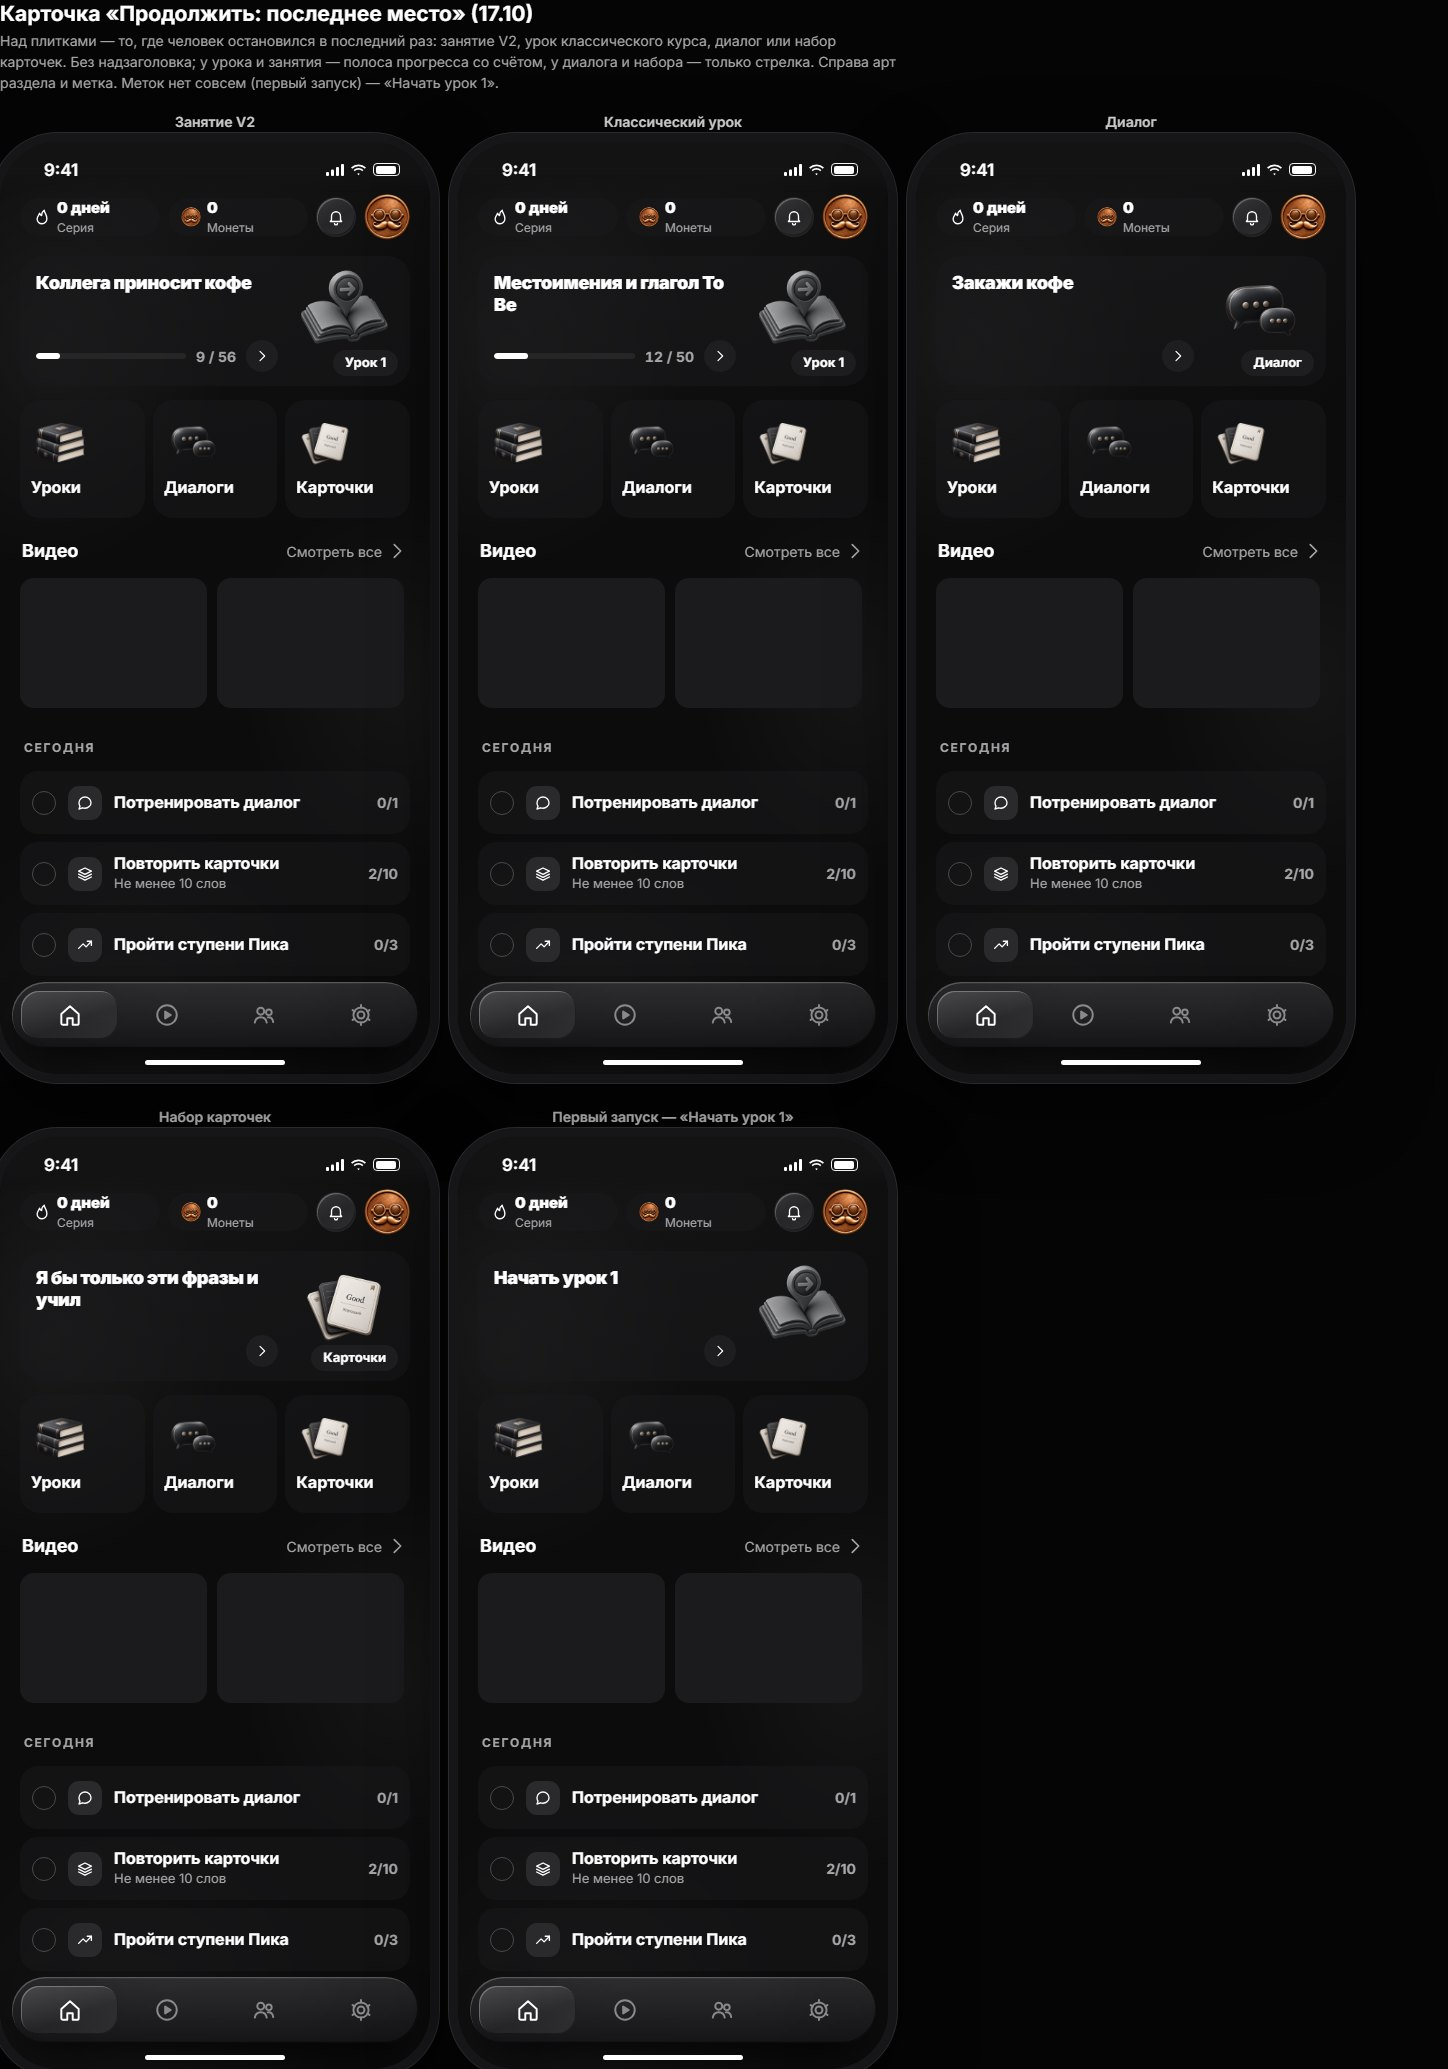
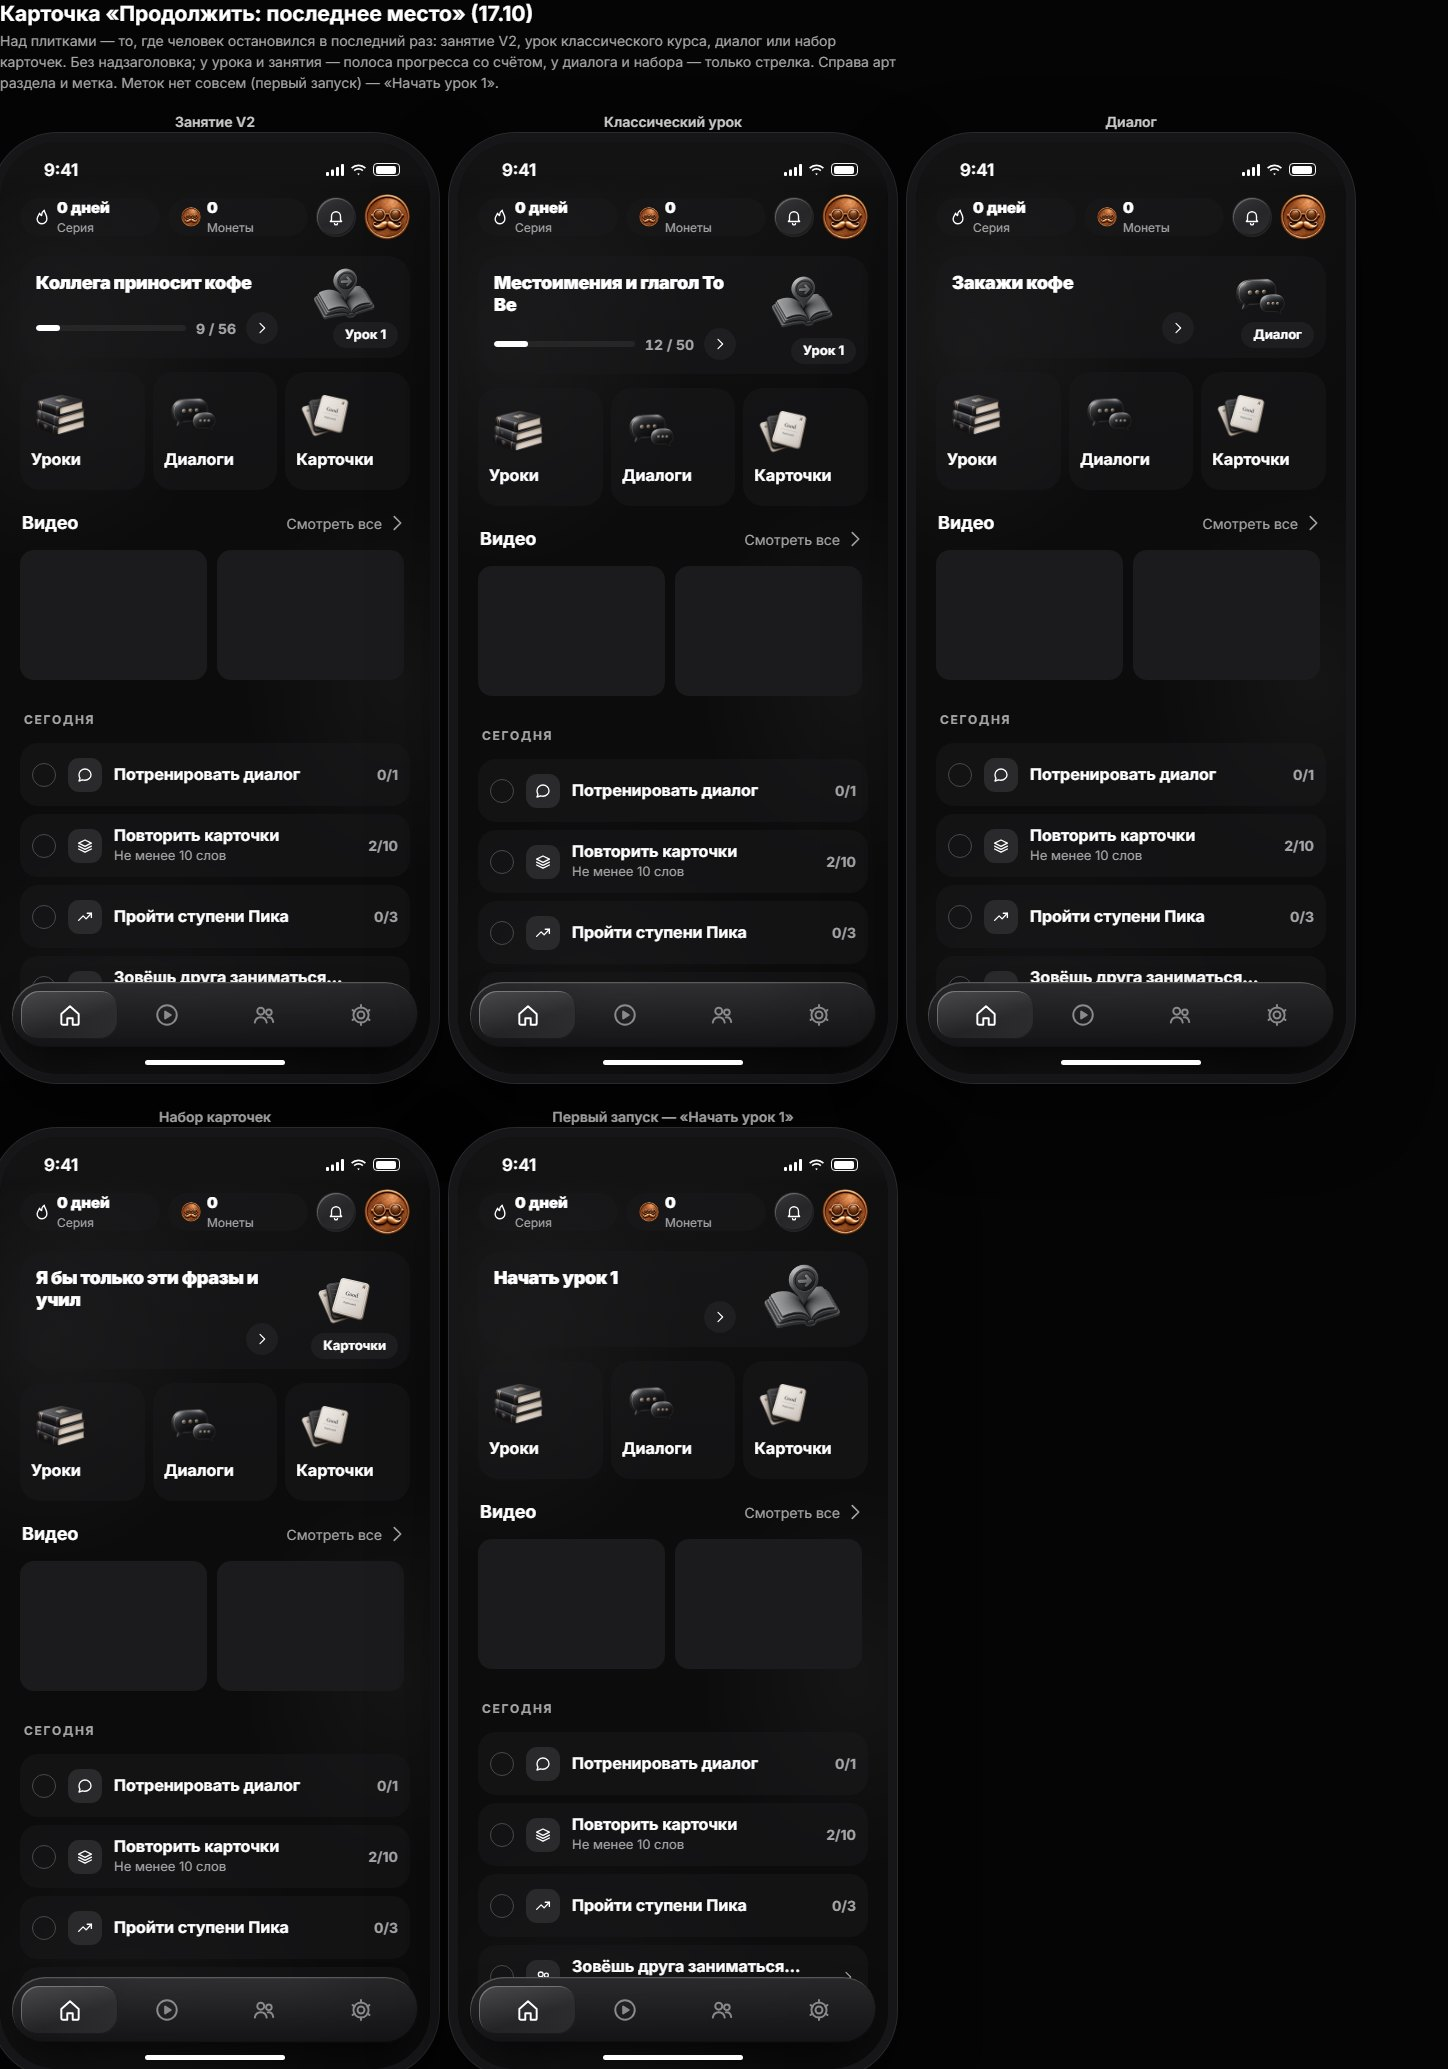
docs(design): карточка «последнее место» в эталоне — размеры по коду (высота от 96, арт 64 с меткой / 80 без)
Governance-ID: TG-5578C1520D76

diff --git a/docs/design/v2-app/home-by-language-mockup.html b/docs/design/v2-app/home-by-language-mockup.html
@@ -62,7 +62,7 @@
 /* зачем (владелец 17.10, 719e4c771): карточка «последнее место» над плитками — занятие V2, классический урок, диалог или набор карточек.
    Геометрия — как HomeV2ContinueCard: без надзаголовка (владелец 04.10), название 2 строки, ниже полоса прогресса со счётом и круглая стрелка;
    у диалога и набора прогресса нет (hideProgress) — строка той же высоты, стрелка на месте. Справа арт целиком (contain) и плашка-метка. */
-.lastp { margin-top: 16px; border-radius: 22px; min-height: 104px; background: color-mix(in srgb, var(--card-2) 50%, transparent); position: relative; overflow: hidden; display: flex; align-items: stretch; }
+.lastp { margin-top: 16px; border-radius: 22px; min-height: 96px; background: color-mix(in srgb, var(--card-2) 50%, transparent); position: relative; overflow: hidden; display: flex; align-items: stretch; }
 .lastp .cp { flex: 1; min-width: 0; padding: 16px 0 14px 16px; display: flex; flex-direction: column; justify-content: space-between; gap: 12px; }
 .lastp .tt { font-size: 18px; line-height: 22px; font-weight: 800; letter-spacing: -.3px; display: -webkit-box; -webkit-line-clamp: 2; -webkit-box-orient: vertical; overflow: hidden; }
 .lastp .pr { display: flex; align-items: center; gap: 10px; min-height: 32px; }
@@ -71,7 +71,9 @@
 .lastp .pr .ct2 { font-size: 14px; font-weight: 700; color: var(--sec); font-variant-numeric: tabular-nums; }
 .lastp .pr .ar2 { margin-left: auto; width: 32px; height: 32px; border-radius: 16px; background: color-mix(in srgb, #2A2A2C 50%, transparent); display: flex; align-items: center; justify-content: center; flex: none; }
 .lastp .art2 { position: relative; width: 132px; flex: none; display: flex; align-items: center; justify-content: center; padding: 8px 10px 30px; }
-.lastp .art2 img { width: 92px; height: 92px; object-fit: contain; }
+.lastp .art2 img { width: 64px; height: 64px; object-fit: contain; }
+.lastp .art2.nb { padding-bottom: 8px; }
+.lastp .art2.nb img { width: 80px; height: 80px; }
 .lastp .bdg2 { position: absolute; right: 12px; bottom: 10px; min-height: 26px; padding: 4px 12px; border-radius: 13px; background: color-mix(in srgb, #2A2A2C 50%, transparent); font-size: 13px; font-weight: 700; white-space: nowrap; }
 .today { background: none; border: 0; padding: 14px 0 6px; }
 .today .row { background: color-mix(in srgb, var(--card-2) 50%, transparent); border: 0; border-radius: 18px; padding: 10px 12px; margin-top: 8px; }
@@ -139,7 +141,7 @@ const home = (code) => {
 };
 
 // ── карточка «последнее место» (719e4c771): варианты по месту, где человек остановился ──
-const lastPlace = (o) => `<div class="lastp"><div class="cp"><div class="tt">${o.title}</div><div class="pr">${o.total ? `<div class="trk2"><i style="width:${Math.max(4, Math.round(o.done / o.total * 100))}%"></i></div><span class="ct2">${o.done} / ${o.total}</span>` : ''}<span class="ar2">${icon('fwd', 's16')}</span></div></div><div class="art2"><img src="${img(o.art)}" alt="">${o.badge ? `<span class="bdg2">${o.badge}</span>` : ''}</div></div>`;
+const lastPlace = (o) => `<div class="lastp"><div class="cp"><div class="tt">${o.title}</div><div class="pr">${o.total ? `<div class="trk2"><i style="width:${Math.max(4, Math.round(o.done / o.total * 100))}%"></i></div><span class="ct2">${o.done} / ${o.total}</span>` : ''}<span class="ar2">${icon('fwd', 's16')}</span></div></div><div class="art2${o.badge ? '' : ' nb'}"><img src="${img(o.art)}" alt="">${o.badge ? `<span class="bdg2">${o.badge}</span>` : ''}</div></div>`;
 const PLACES = {
   v2: { title: 'Коллега приносит кофе', done: 9, total: 56, art: 'v2art/dark/continue.webp', badge: 'Урок 1' },
   legacy: { title: 'Местоимения и глагол To Be', done: 12, total: 50, art: 'v2art/dark/continue.webp', badge: 'Урок 1' },
